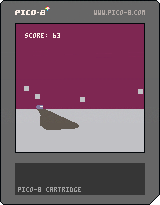
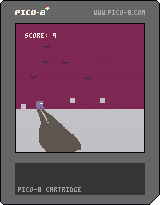
added birds

diff --git a/README.md b/README.md
@@ -7,6 +7,7 @@ A small Pico-8 game, based on an android game I coded in university during a 48h
 ## Changelog
 
 ### 2024-01-20
+- Added birds
 - Added Game Over screen
 - Added Pause option
 - Balanced block generation
